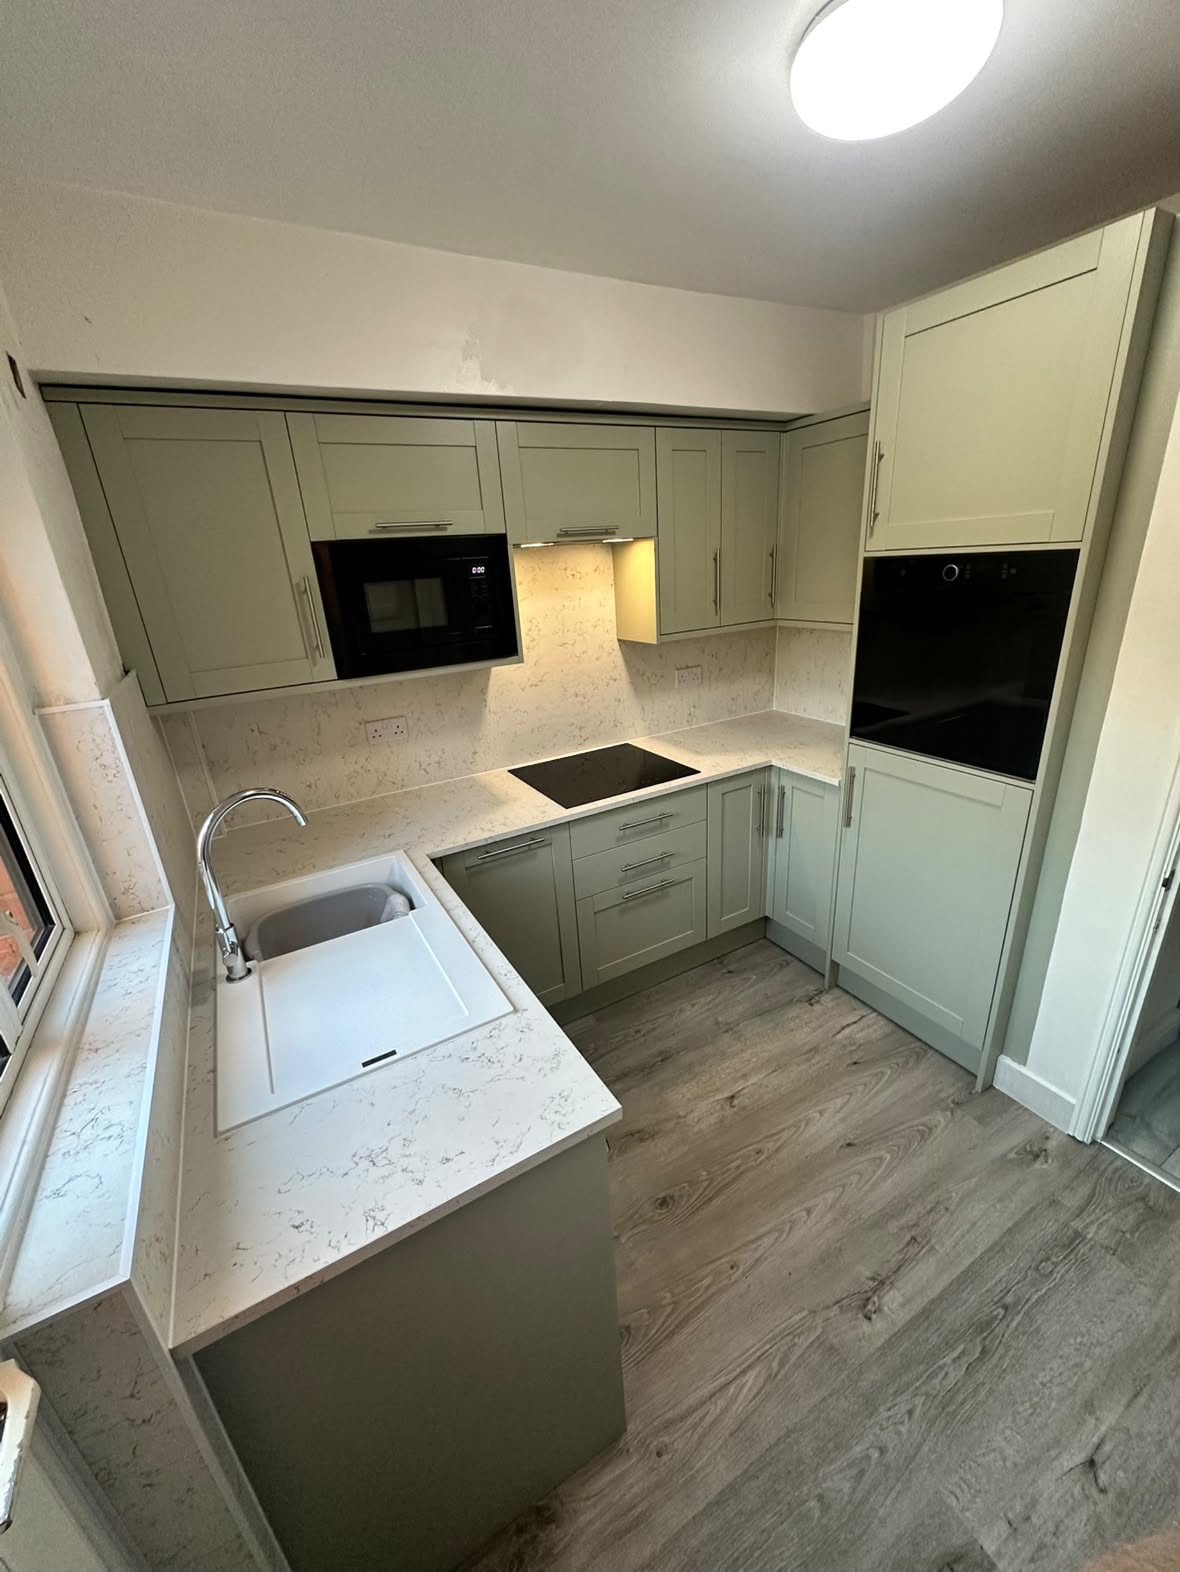
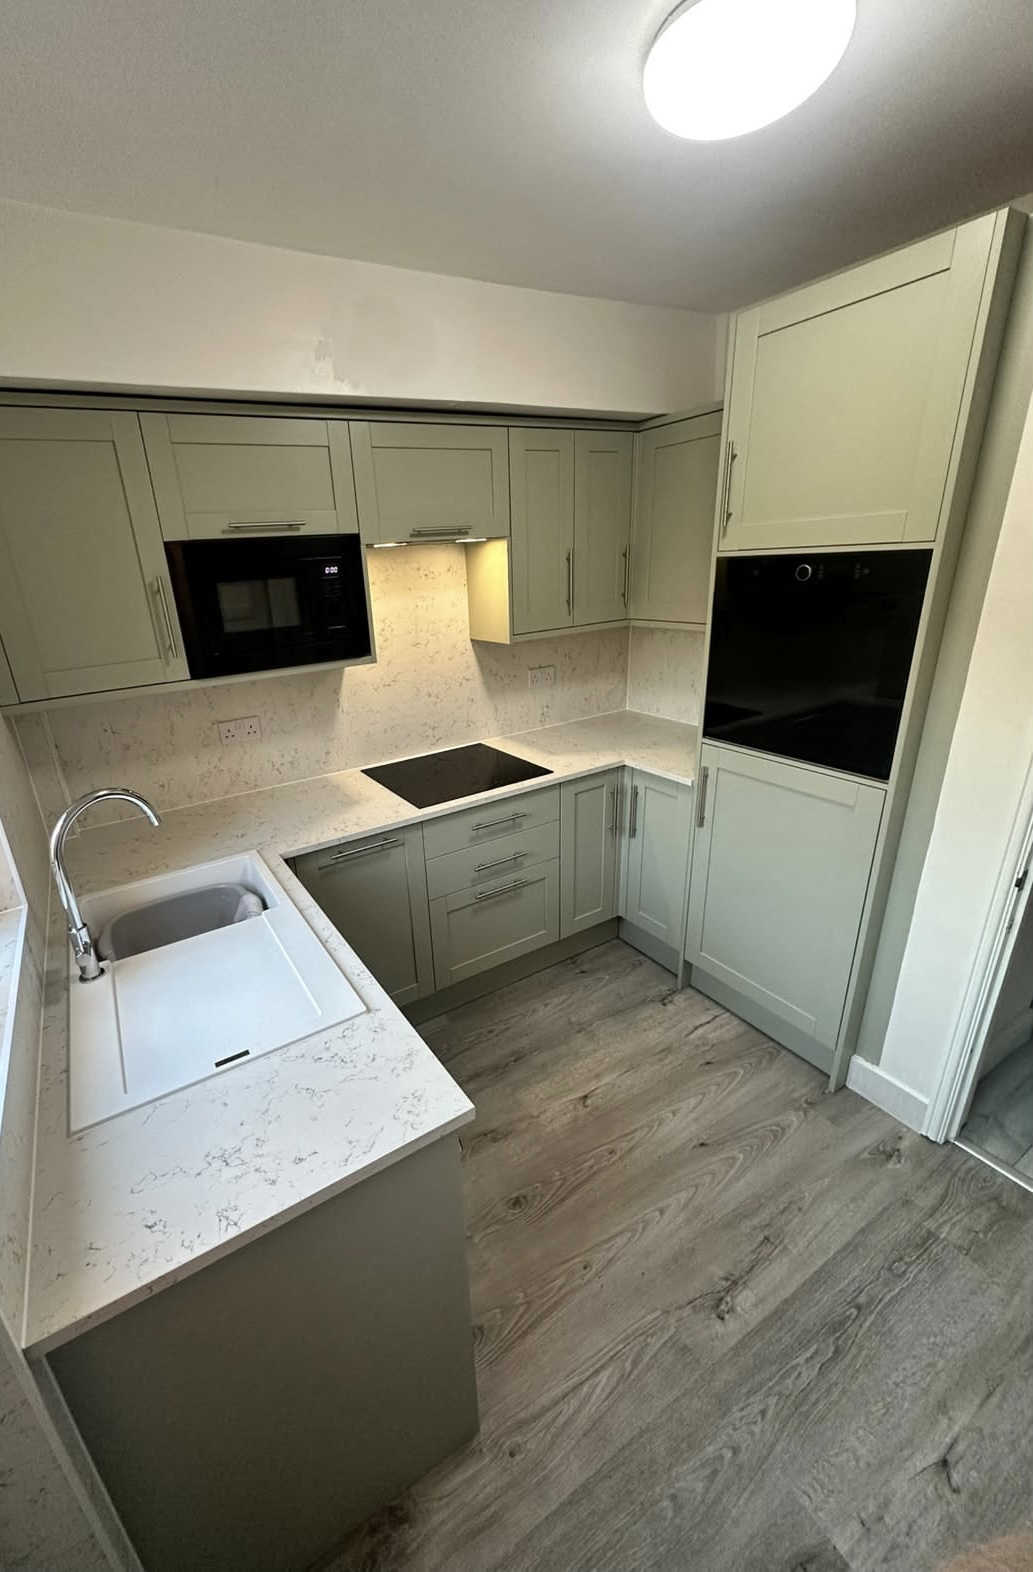
Replace two kitchen photos with Jack’s cropped versions (#4)
Overwrite the sage-green finished and white before shots in place and record the new dimensions in BRIEF.md.

diff --git a/BRIEF.md b/BRIEF.md
@@ -27,8 +27,8 @@ Jack sent these ten photos. Use his originals. Notes:
 - `photos/garden-patio-clearance.jpg` (1180×1572) — paved patio with tools, toolbox, rusty oil drum, wooden bench, tall timber fence and lawn. Reads as clearance / before, not a finished landscaping shot.
 - `photos/garden-lawn-red-fence.jpg` (1182×886) — lawn, red-stained fence panels, bird bath, brick house with patio doors, rusty drum and bench. Garden before or during.
 - `photos/kitchen-grey-shaker-belfast.jpg` (1182×886) — light grey shaker units, white metro splashback, gas hob, Belfast sink, stone-look floor. Pendant not hung and one socket still open. Nearly finished, not a hero finished shot.
-- `photos/kitchen-sage-green-finished.jpg` (1180×1572) — sage green shaker, marble-effect worktop, induction hob, built-in microwave and oven, undermount sink, wood-effect floor. Finished kitchen.
-- `photos/kitchen-white-before.jpg` (1180×1572) — dated white units, wood worktops, square floor tiles, cluttered. Before kitchen. Not confirmed as the same room as either finished kitchen.
+- `photos/kitchen-sage-green-finished.jpg` (1033×1572) — sage green shaker, marble-effect worktop, induction hob, built-in microwave and oven, undermount sink, wood-effect floor. Finished kitchen. Jack’s slightly cropped version of the same shot.
+- `photos/kitchen-white-before.jpg` (1122×1572) — dated white units, wood worktops, square floor tiles, cluttered. Before kitchen. Not confirmed as the same room as either finished kitchen. Jack’s slightly cropped version of the same shot.
 
 Jack supplied the scroll-scrub source clip. It is already encoded for scroll-scrub use. Do not re-encode.
 
